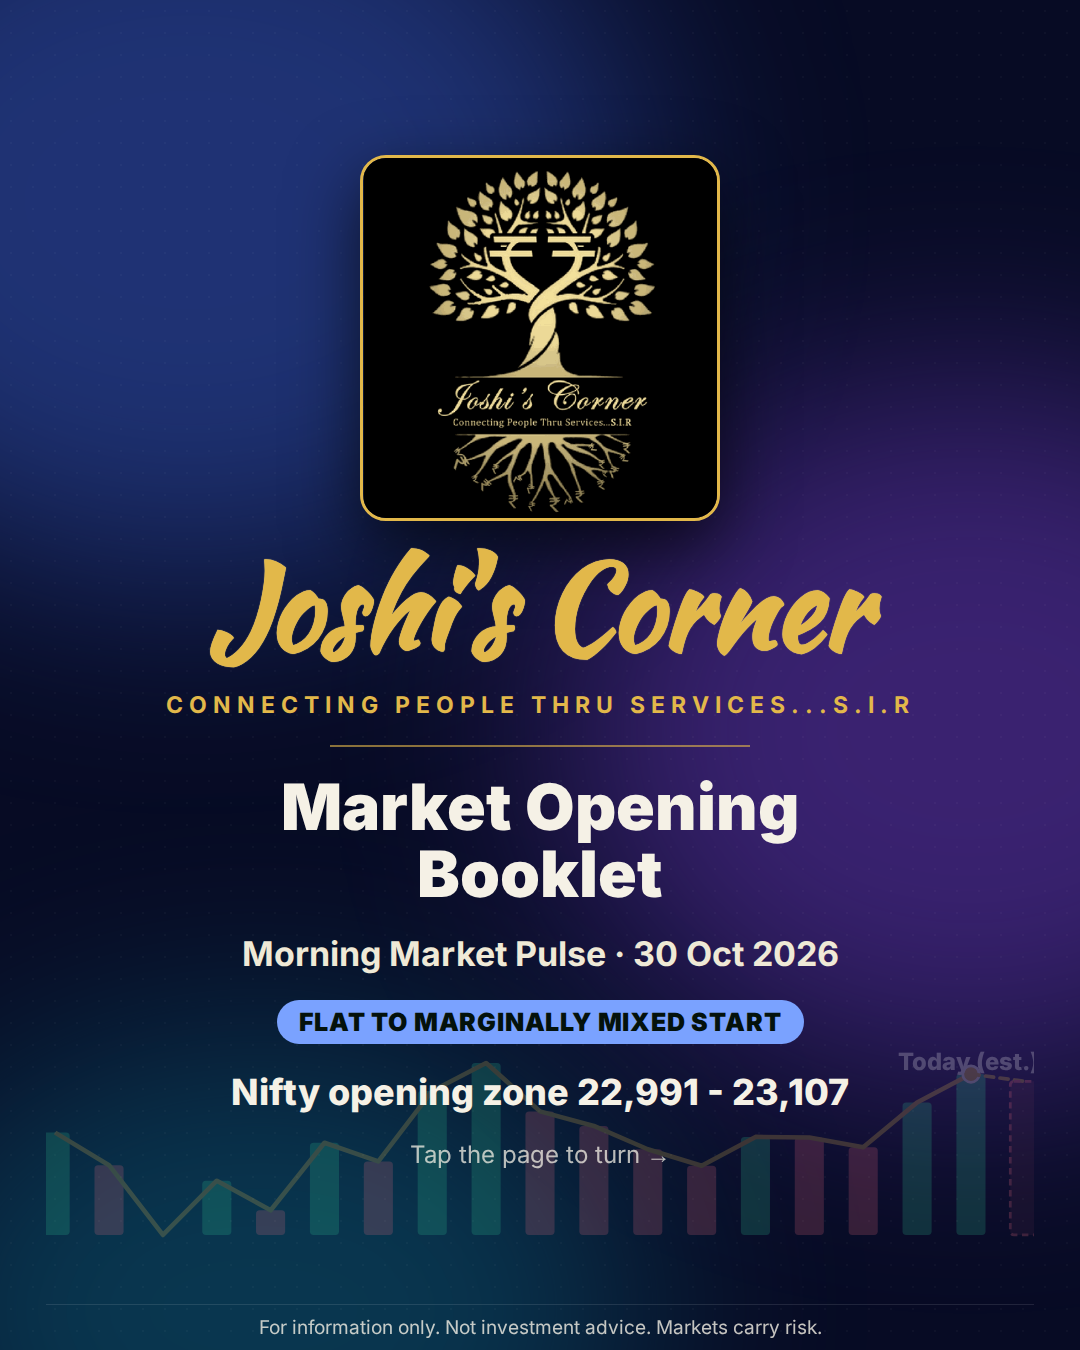
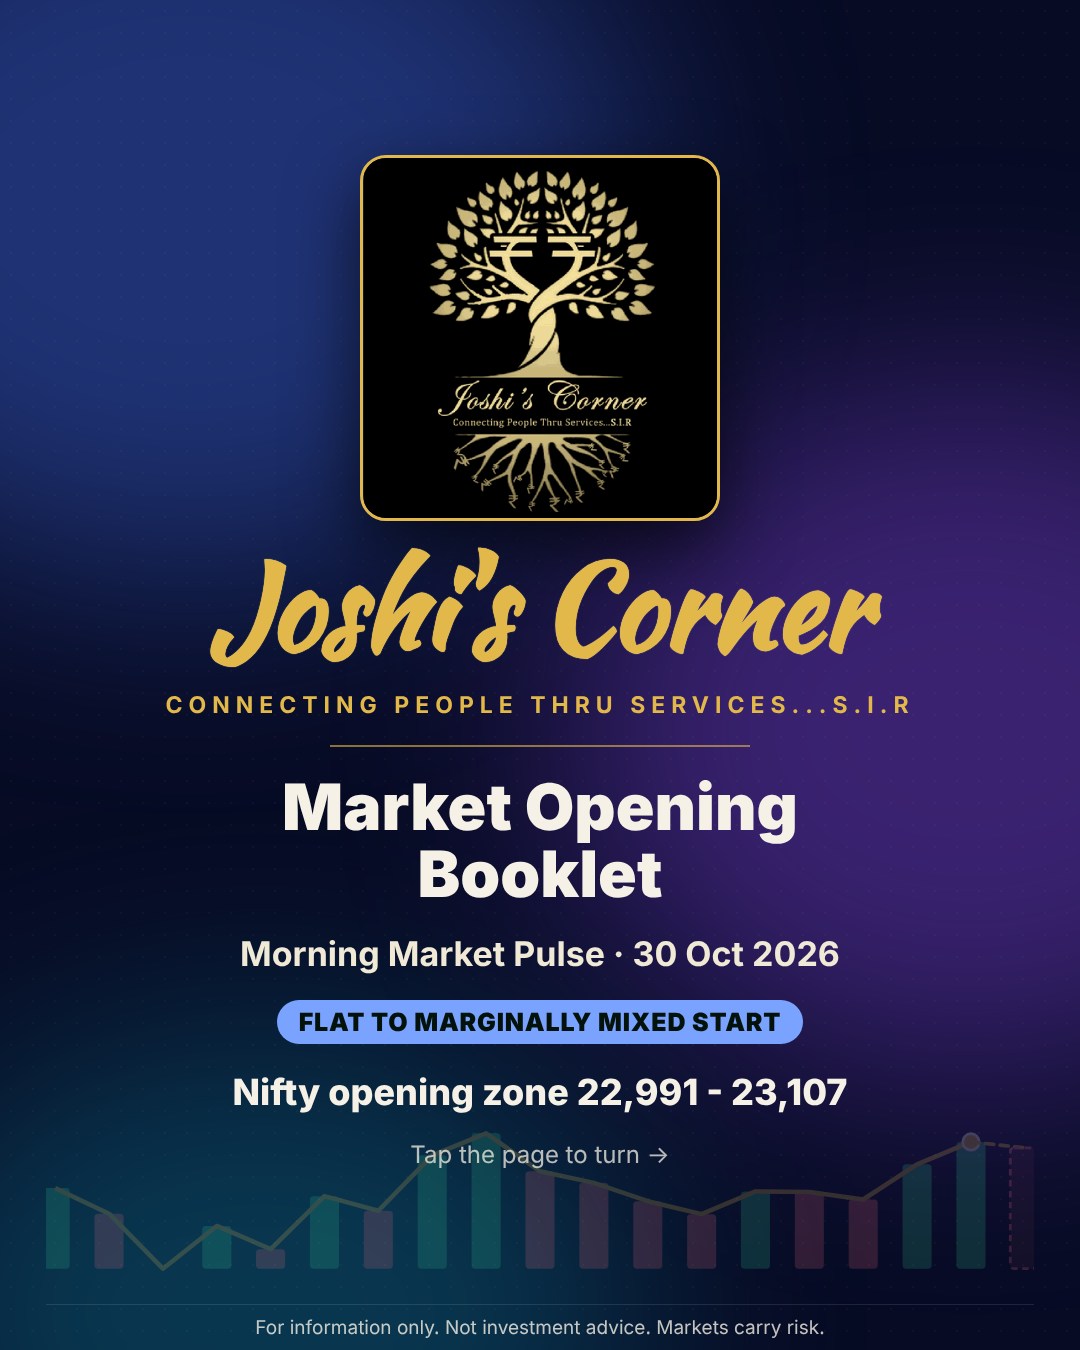
Booklet cover: quieter background chart (today's cover re-rendered from the published real data)
Claude-Session: https://claude.ai/code/session_018ys3NapdTQzAaWigZxvdva

diff --git a/pipeline/render_booklet.py b/pipeline/render_booklet.py
@@ -141,7 +141,7 @@ def photo(c, key_sc):
 # ------------------------------------------------------------------ pages
 def p1(b, p, total, ph):
     bg = ('<div style="position:absolute;inset:0;background:linear-gradient(180deg,%s00 0%%,%s 100%%),url(%s) center/cover;opacity:.55"></div>' % (p["base"], p["base"], ph)) if ph else ""
-    spark = chart(b.get("spark", []), b.get("proj"), p, 1080, 240).replace('height="240"', 'height="240" style="position:absolute;left:0;bottom:46px;opacity:.22"') if b.get("spark") else ""
+    spark = chart(b.get("spark", []), b.get("proj"), p, 1080, 200).replace('height="200"', 'height="200" style="position:absolute;left:0;bottom:14px;opacity:.2"').replace('Today (est.)', '') if b.get("spark") else ""
     inner = ('<div style="position:relative;flex:1;display:flex;flex-direction:column;align-items:center;justify-content:center;gap:26px;text-align:center">%s%s'
              '<img src="%s" style="width:360px;border-radius:26px;border:3px solid %s;box-shadow:0 24px 70px #000a;position:relative">'
              '<div class="brand" style="font-size:118px;position:relative">%s</div>'
